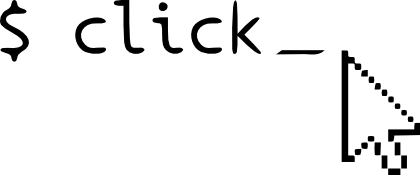
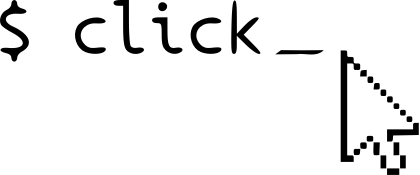
Added 2x images to docs for retina display support

diff --git a/docs/_templates/sidebarlogo.html b/docs/_templates/sidebarlogo.html
@@ -1,3 +1,3 @@
 <p class="logo"><a href="{{ pathto(master_doc) }}">
-  <img class="logo" src="{{ pathto('_static/click-small.png', 1) }}" alt="Logo">
+  <img class="logo" src="{{ pathto('_static/click-small@2x.png', 1) }}" width="120" height="50" alt="Logo">
 </a></p>
